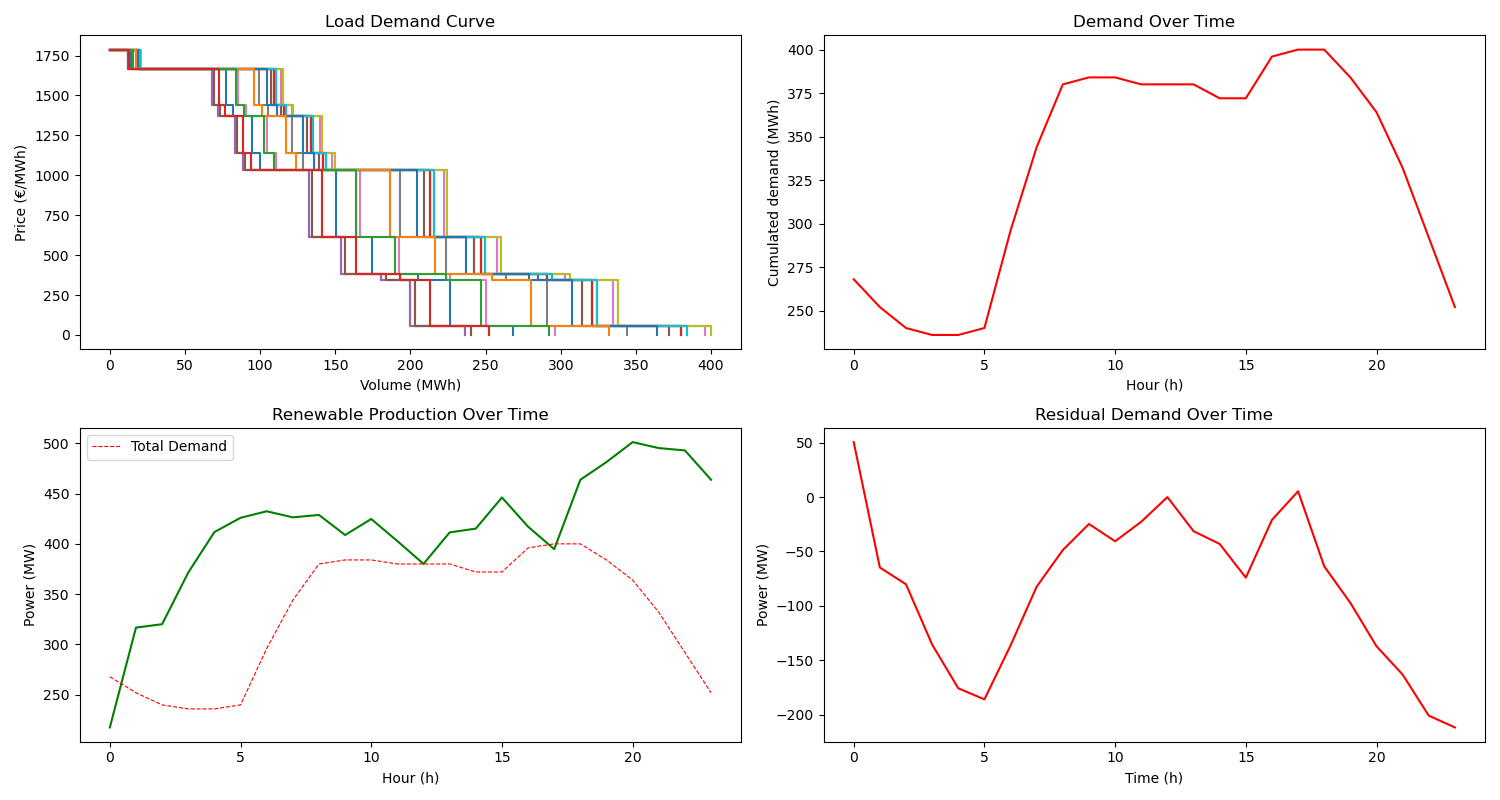
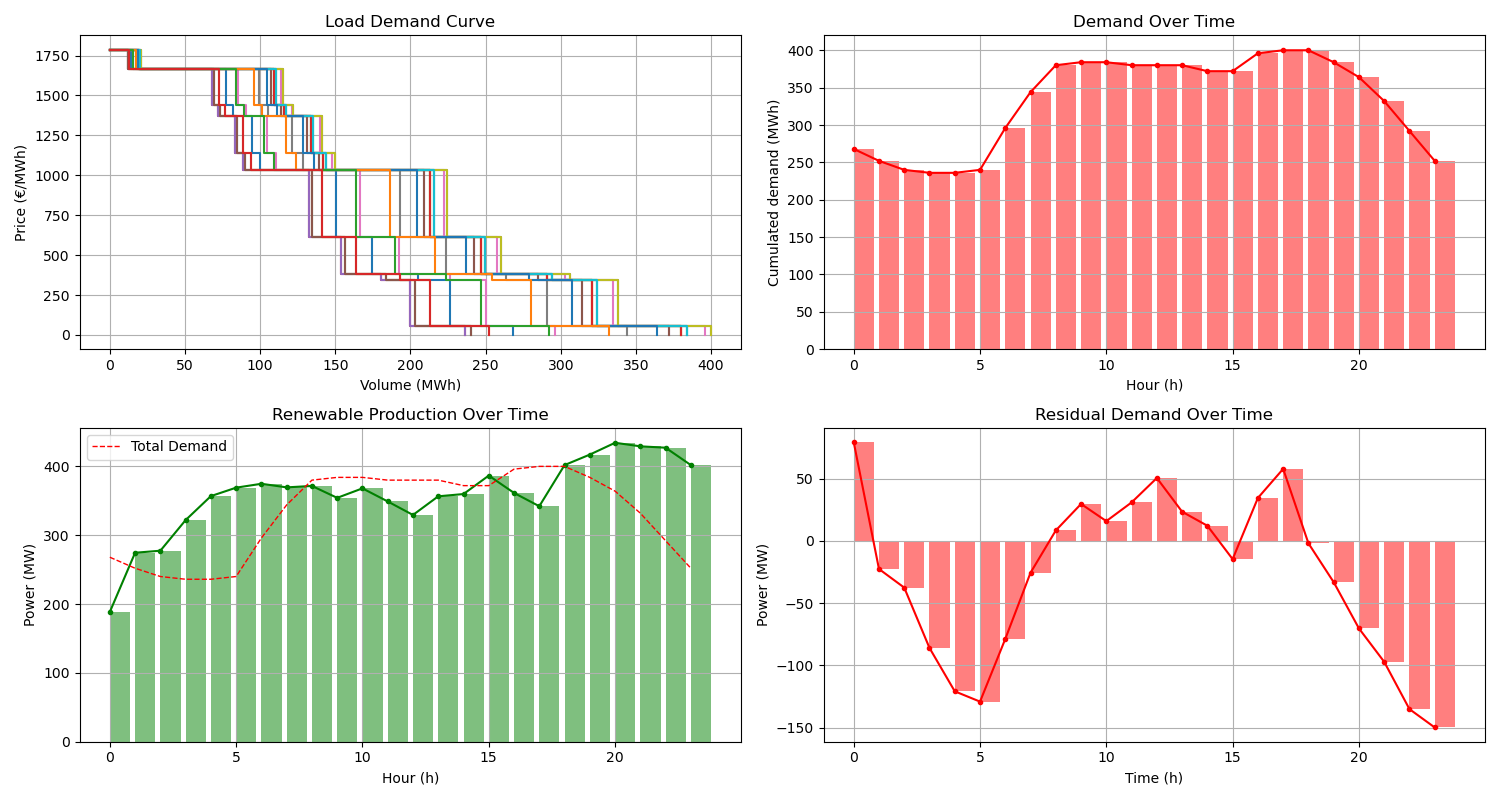
Battery Sizing
- Introduction of C-rate parameter
- Sizing of required capacity with Local cumul residual demand
(For now, installed = required, but a factor <1 can be introduced to reduce the installed capacity)
- Change in relative plots
- Save new plots

diff --git a/function_full_demand_new.py b/function_full_demand_new.py
@@ -13,15 +13,15 @@ import data
 ## --- Initialization of the problem ---
 
 # Set changing parameters
-n_players = 4           # Number of storage players in the Cournot game \in {1, 2, 4, 6, 8}
-factor = 1.3            # Scaling factor for RES production
-alpha_batt = 0.5        # Initial storage level (%)
-min_eta = 0.85          # Minimal storage round-trip efficiency
-OC_default = 5          # Default storage operating cost
-cap_factor = 5          # Ratio: Total storage capacity / Total storage power rate
-N = 5                   # Discretization number for power outputs
-tol = 1e-5              # Nash equilibrium tolerance parameter
-max_iter = 200          # Nash equilibrium maximum iteration number
+n_players = 6               # Number of storage players in the Cournot game \in {1, 2, 4, 6, 8}
+factor = 1.3                # Scaling factor for RES production
+alpha_batt = 0.5            # Initial storage level (%)
+min_eta = 0.85              # Minimal storage round-trip efficiency
+OC_default = 5              # Default storage operating cost
+storage_Crate_default = 0.5 # Charge/discharge rate relative to energy capacity. A 1C battery can discharge fully in 1 hour.
+N = 5                       # Discretization number for power outputs
+tol = 1e-5                  # Nash equilibrium tolerance parameter
+max_iter = 200              # Nash equilibrium maximum iteration number
 
 
 # Diverse parameters
@@ -101,34 +101,40 @@ plt.tight_layout()
 
 # Battery/Storage parameters
 Q_max_all = np.zeros(n_players)         # Maximum available power (MW)
+Q_all = [[] for _ in range(n_players)]  # List of possible power bids
 OC_all = np.zeros(n_players)            # Marginal cost (€/MW)
 E_max_all = np.zeros(n_players)         # Maximum battery level (MWh)
-Q_all = [[] for _ in range(n_players)]  # List of possible power bids
 Eta_all = np.zeros(n_players)           # Storage round-trip efficiency
+
+# Offset with zero value to effectively compute battery requirements 
+# (if first residual demand value x is positive, Local_cumul=0 though we would need x MWh to satisfy the demand - it is due to the min being updated over time but not initialized)
+Residual = np.insert(Residual, 0, 0, 0)
 
 # Storage requirement computation
 Residual_corrected = np.where(Residual > 0, Residual / min_eta, Residual)   # Taking into account the round-trip efficiency when the battery discharge on the grid (=> need to discharge 100% + eta% energy to satisfy the corresponding demand)
 
 Cummul_res_corr = np.cumsum(Residual_corrected)
 
-# ..... if always surplus deficit, then offset by initial value to get full battery need
 Local_cumul = Cummul_res_corr - np.minimum.accumulate(Cummul_res_corr)
                                 # minimum of sliced list[:t]
 
-PowerRating_req = np.max(np.abs(Residual_corrected))    # Minimum instantaneous power the storage system need to have to satisfy the demand at any time step > informs Q_max
-PowerRating_req = int(np.round(PowerRating_req/100)*100)
+# Minimum total amount of energy the battery must store to satisfy the demand at any time step > informs E_max
+Capacity_req = np.max(Local_cumul)                      
+Capacity_req = int(np.ceil(Capacity_req))
 
-# Capacity_req = np.max(Local_cumul)                      # Minimum total amount of energy the battery must store to satisfy the demand at any time step > informs E_max
-# Capacity_req = int(np.floor(Capacity_req))
-Capacity_req = PowerRating_req * cap_factor
+# PowerRating_req = np.max(np.abs(Residual_corrected))    # Minimum instantaneous power the storage system need to have to satisfy the demand at any time step > informs Q_max
+# PowerRating_req = int(np.round(PowerRating_req/10)*10)
+PowerRating_available = Capacity_req * storage_Crate_default
+
 
 # Plotting
 fig, axs = plt.subplots(2, 1, figsize=(12, 8), sharex=True)
+x = range(T+1)
 
 # Plot 1: Residual and Residual Corrected
-axs[0].plot(Residual, label='Residual (Demand - RES)', color='tab:blue')
-axs[0].plot(Residual_corrected, label='Residual Corrected (battery inefficiency)', color='tab:orange')
-axs[0].axhline(PowerRating_req, color='tab:red', linestyle='--', label='Required Power Rate (MW)')
+axs[0].bar(x, height=Residual_corrected, color='tab:orange', label='Residual Corrected (battery inefficiency)', align='edge')
+axs[0].bar(x, height=Residual, color='tab:blue', label='Residual (Demand - RES)', align='edge')
+axs[0].axhline(PowerRating_available, color='tab:red', linestyle='--', label='[max] Available Storage Power (MW)')
 axs[0].axhline(0, color='black', linestyle='--', linewidth=0.8)
 axs[0].set_title('Residual Demand vs Corrected Residual')
 axs[0].set_ylabel('Power [MW]')
@@ -136,9 +142,9 @@ axs[0].legend()
 axs[0].grid(True)
 
 # Plot 2: Cumulative and Local Cumulative
-axs[1].plot(Cummul_res_corr, label='Cumulative Residual Corrected', color='tab:green')
-axs[1].plot(Local_cumul, label='Local Cumulative (Storage Level)', color='tab:red')
-axs[1].axhline(Capacity_req, color='tab:orange', linestyle='--', label='Required Energy Capacity (MWh)')
+axs[1].plot(Cummul_res_corr, label='Cumulative Residual Corrected', color='tab:green', marker='.')
+axs[1].plot(Local_cumul, label='Local Cumulative (Storage Level)', color='tab:red', marker='.')
+axs[1].axhline(Capacity_req, color='tab:orange', linestyle='--', label='[max] Required Energy Capacity (MWh)')
 axs[1].axhline(0, color='black', linestyle='--', linewidth=0.8)
 axs[1].set_title('Cumulative Imbalance and Virtual Storage Level')
 axs[1].set_xlabel('Hour')
@@ -318,8 +324,6 @@ def nash_eq(q_ch_assumed_ini, q_dis_assumed_ini, n_players, tol=1e-7):
         size_stor = [1/3, 2/3]
     elif n_players == 4:
         size_stor = [0.1, 0.2, 0.3, 0.4]
-        # size_stor = [0.3, 0.3, 0.4, 0.5]
-        # size_stor = [1/3, 2/3, 1/3, 2/3]
     elif n_players == 6:
         size_stor = [0.05, 0.1, 0.1, 0.15, 0.25, 0.35]
     elif n_players == 8:
@@ -339,9 +343,9 @@ def nash_eq(q_ch_assumed_ini, q_dis_assumed_ini, n_players, tol=1e-7):
     for player in range(n_players):
         OC_all[player] = OC_default
         Eta_all[player] = min_eta
-        Q_max_all[player] = int(np.floor(PowerRating_req * size_stor[player] / 10) * 10)
-        Q_all[player] = [round(Q_max_all[player] * (i / N),2) for i in range(1, N+1)]
         E_max_all[player] = int(np.floor(Capacity_req * size_stor[player] / 10) * 10)
+        Q_max_all[player] = int(np.floor(PowerRating_available * size_stor[player]))
+        Q_all[player] = [round(Q_max_all[player] * (i / N),2) for i in range(1, N+1)]
 
         # Fill the summary dictionnary
         summary_data["Player"].append(chr(65 + player))
